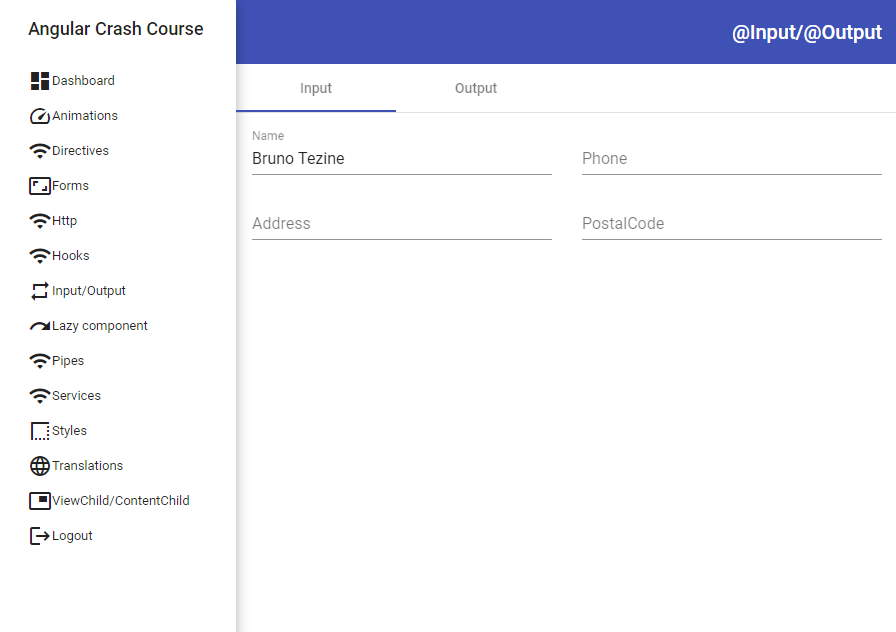
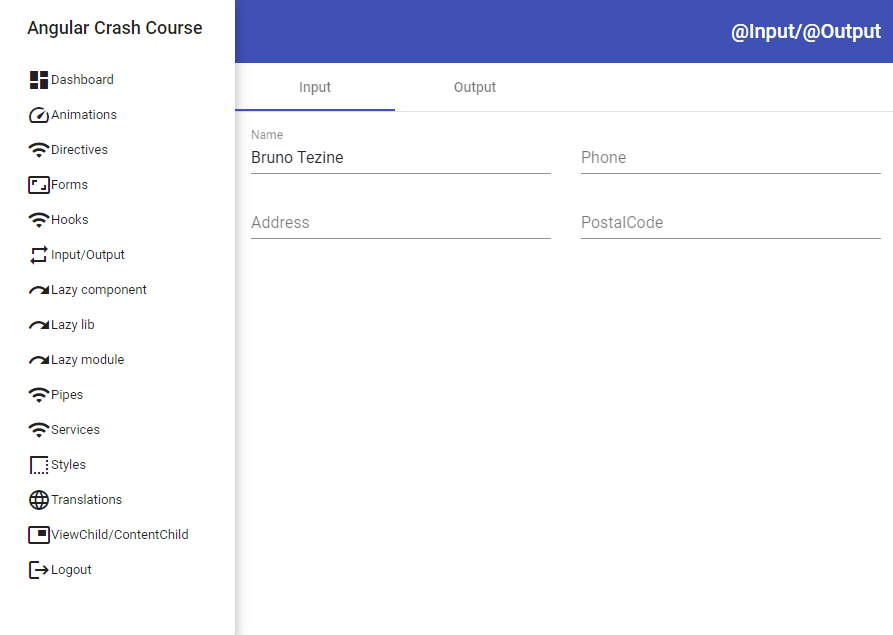
Angular updates

diff --git a/Frameworks/Angular/POC/projects/core-project/src/styles.scss b/Frameworks/Angular/POC/projects/core-project/src/styles.scss
@@ -1,4 +1,5 @@
 /* You can add global styles to this file, and also import other style files */
+///@import '@angular/material/prebuilt-themes/indigo-pink.css';
 
 body{
   max-width: 3000px !important;

diff --git a/Frameworks/Angular/Angular.md b/Frameworks/Angular/Angular.md
@@ -47,22 +47,28 @@
 
 # POC
 
-* There's a Proof of Concept project following this material. You can find the code [here](./POC). The purpose of the POC is to exemplify all subjects mentioned in this document. It's composed by an Angular workspace with 1 application (core-project), 1 Angular library (users-lib)... 
-* It uses Material Design components, bootstrap css, internationalization, animations, services, template and reactive forms and many other features. 
+* There's a Proof of Concept project following this material. You can find the code [here](./POC). The purpose of the POC is to exemplify all subjects mentioned in this document. It's composed by an Angular workspace with 1 application (core-project), 1 Angular library (users-lib), 1 Angular module (extra) ...
+* It uses Material Design components, bootstrap css, internationalization, animations, services, lazy loading, template and reactive forms and many other features. 
 
 ![alt text](POC.jpg "Screenshot")
 
 
-# Project Structure
+# Workspace File Structure
 
-* There's a best practice article describing a great approach [here]([https://www.tektutorialshub.com/angular/angular-folder-structure-best-practices/#:~:text=References-,Folder%20for%20each%20Angular%20Module,named%20after%20the%20Module%20Name.](https://www.tektutorialshub.com/angular/angular-folder-structure-best-practices/#:~:text=References-,Folder for each Angular Module,named after the Module Name.))
+* It is recommended to create a workspace whenever you want to start a new application from scratch. There's a detailed description on Angular website [here](https://angular.io/guide/file-structure) and a great tutorial provided by the community [here](https://www.tektutorialshub.com/angular/angular-folder-structure-best-practices/).
+* Explaining the basics, we usually have a single application inside the workspace and several libraries and modules. Components, Pipes, Directives, Services can be added into any of these 3. All files can ben created by using `ng` command line interface. Usually, each Angular component creates 3 files (html, ts, and spec.ts). The `spec.ts` is a [Jasmine](https://jasmine.github.io/) BDD file for testing purposes. If your editor  supports file nesting, there's no need to add each component into a new folder. There are many flags available that you can set while adding a new file using `ng`, and you may choose the best match for your goals. 
+* It's highly recommended that you split your application into several modules. This way, you won't have a frontend monolith loaded from a single chunk file. The accompanying POC exemplify on how to create the file structures when using modules and libraries. 
+* Here are some important files in the workspace: 
+  * angular.json: It's the workspace configuration file. Here you'll find all projects that belong to the workspace and specific configurations for each one. 
+  * package.json : Different of a standard package.json, this file configures the npm dependencies used by all projects inside the workspace. 
+  * tsconfig.json: Similar to the package.json, this file is workspace wide. Whatever you define for your typescript configuration, it applies to all projects.  
 
 # Modules and Libraries
 
 In Angular, sometimes we get confused on when to create a library and when to create a Angular Module. Here are the basic differences between them: 
 
-* [Module](https://angular.io/guide/architecture-modules): A Module resides inside the project and it's only used within it. We can add components and others into the module and load the module at runtime when needed. A common scenario is to do Lazy Loading triggered by a specific route in your website. Ex: /users load the Users module, containing all users components, services... . Unfortunately, this approach requires you to download the module source code in order to accomplish the lazy load, and that's why it's called as "mono repository" approach. 
-* [Library](https://angular.io/guide/libraries): A library is more appropriate when you wish to share it with several projects. This way, the application that uses the library doesn't have to access the library code, only the compiled bundle. It's even possible to do lazy loading of a library without having its source code, but it requires you to define a module wrapper into the consumer application. 
+* [Module](https://angular.io/guide/architecture-modules): A Module resides inside the project and it's only used within it. We can add components and others into the module and load the module at runtime when needed. A common scenario is to do Lazy Loading triggered by a specific route in your website. Ex: /users load the Users module, containing all users components, services... . Unfortunately, this approach requires you to download the module source code in order to accomplish the lazy load, and that's why it's called as "mono repository/monorepo" approach. 
+* [Library](https://angular.io/guide/libraries): A library is more appropriate when you wish to share it with several projects. This way, the application that uses the library doesn't have to access the library code, only the compiled bundle. It's even possible to do lazy loading of a library without having its source code, but it requires you to define a module wrapper into the consumer application. When working with complex projects, splitting codes into libraries is a good approach. This way, you are free from monorepo, so you don't need to download the entire workspace in order to modify something inside a specific library. 
 
 ## Libraries
 
@@ -74,15 +80,17 @@ cd my-workspace
 ng generate library my-lib # creates the library project. 
 ```
 
-Remember to define which components are exported by your library in your "my-lib.module.ts". Components not explicitly exported cannot be imported and used in an Angular app. 
+Remember to define which components are exported by your library in your `my-lib.module.ts` and also in your `public_api.ts`. Components not explicitly exported cannot be imported and used in an Angular app. 
 
 After finalizing the library code, you can build it like this:
 
 ```bash
 ng build my-lib --prod
 cd dist/my-lib
-npm publish # This published into NPM repository. Please notice that Angular do not recommend to publish Ivy libraries to npm. 
+npm publish # This publishes into NPM repository. Please notice that Angular do not recommend to publish Ivy libraries to npm. 
 ```
+
+If the library resides in a workspace, you can build it from the top level folder: `ng build --project my-lib`. The chunk file will be generated into the folder defined in your `ng-package.json` of your library. Notice that Angular Libraries have their own `package.json` and a file named `tsconfig.lib.json`, which does the same as `tsconfig.json`. You can than use `npm link` to debug your lib together with the main app. 
 
 You can consume your library, by executing the following command in your app:
 
@@ -93,9 +101,66 @@ npm install my-lib --save
 
 ### Lazy Loading Libraries
 
-It's possible to do lazy loading of Angular libraries. To do so, follow the steps below
+It's possible to do lazy loading of Angular libraries. To do so, follow the steps below:
 
-There's a detailed description about lazy loading libraries [here](https://medium.com/@tomastrajan/why-and-how-to-lazy-load-angular-libraries-a3bf1489fe24). 
+1. Add your library as a dependency the `package.json` of your workspace or app. Ex:
+
+```json
+"dependencies": {
+    "users-lib": "file:projects/users-lib",
+},
+```
+
+2. Add the path into `tsconfig.json` of your workspace to make it easier to find your library path. Ex:
+
+```json
+"lib": [
+    "es2018",
+    "dom"
+],
+"paths": {
+    "@myLib": [
+        "dist/users-lib"
+    ],
+    "@myLib/*": [
+        "dist/users-lib/*"
+    ]
+}
+```
+
+3. In case you wish to lazy load the library chunk according to a specific Angular Route, you can just add the following line into your `app-routing.module.ts`: 
+
+```typescript
+{path: 'users', loadChildren: () => import('@myLib').then(m => m.UsersModule)},
+```
+
+For more information, there's a community tutorial about lazy loading libraries [here](https://medium.com/@tomastrajan/why-and-how-to-lazy-load-angular-libraries-a3bf1489fe24) and a working sample inside the POC. 
+
+## Modules
+
+Angular Modules is the easiest way to do code splitting in your Angular application. Angular modules are not standard javascript modules. They provide some extra informations and they usually belong to a single Angular project. Normally, not used outside as a library. 
+
+Angular Modules group components, services, directives, pipes and so on. Even when you create an application, Angular creates a "main" module for you, where by default all components/sevices... will be part of. As your app grows, it's a recommended that you split the app into several modules. This way, you can lazy load the chunk files by demand during runtime. It's really easy to accomplish this task in Angular. 
+
+### Lazy Loading Modules
+
+Follow the steps below to do lazy loading of modules in your Angular application. There's also a sample code inside the POC exemplifying this particular scenario. 
+
+1. Create a module inside your Angular application
+
+```bash
+ng generate module CustomerDashboard
+```
+
+2. Restructure your project folder in a way that you have all components/services... inside the module folder. (There's an example in the POC).
+3. Add some routing into the module, if you wish.
+4. Now, just add the following line into your `app-routing.module.ts` : 
+
+```typescript
+{path: 'lazy-module', loadChildren:  async () => (await import('../src/extra-module/extra.module')).ExtraModule},
+```
+
+This will do the lazy loading of your module whenever the path 'lazy-module' is passed to the Angular Router. Different from loading a library, you MUST supply the source code of the module, or Angular display an error while compiling your app. That's why this is considered a "monorepo" approach. 
 
 # Components
 
@@ -452,7 +517,3 @@ Every Angular workspace has a `tsconfig.json` file. All typescript configuration
 * There are several tutorials explaining on how to make it work in several ways. Check it out [here](https://indepth.dev/lazy-loading-angular-modules-with-ivy/) and [here](https://netbasal.com/welcome-to-the-ivy-league-lazy-loading-components-in-angular-v9-e76f0ee2854a). 
 
   
-
-## Webassembly
-
-* 
